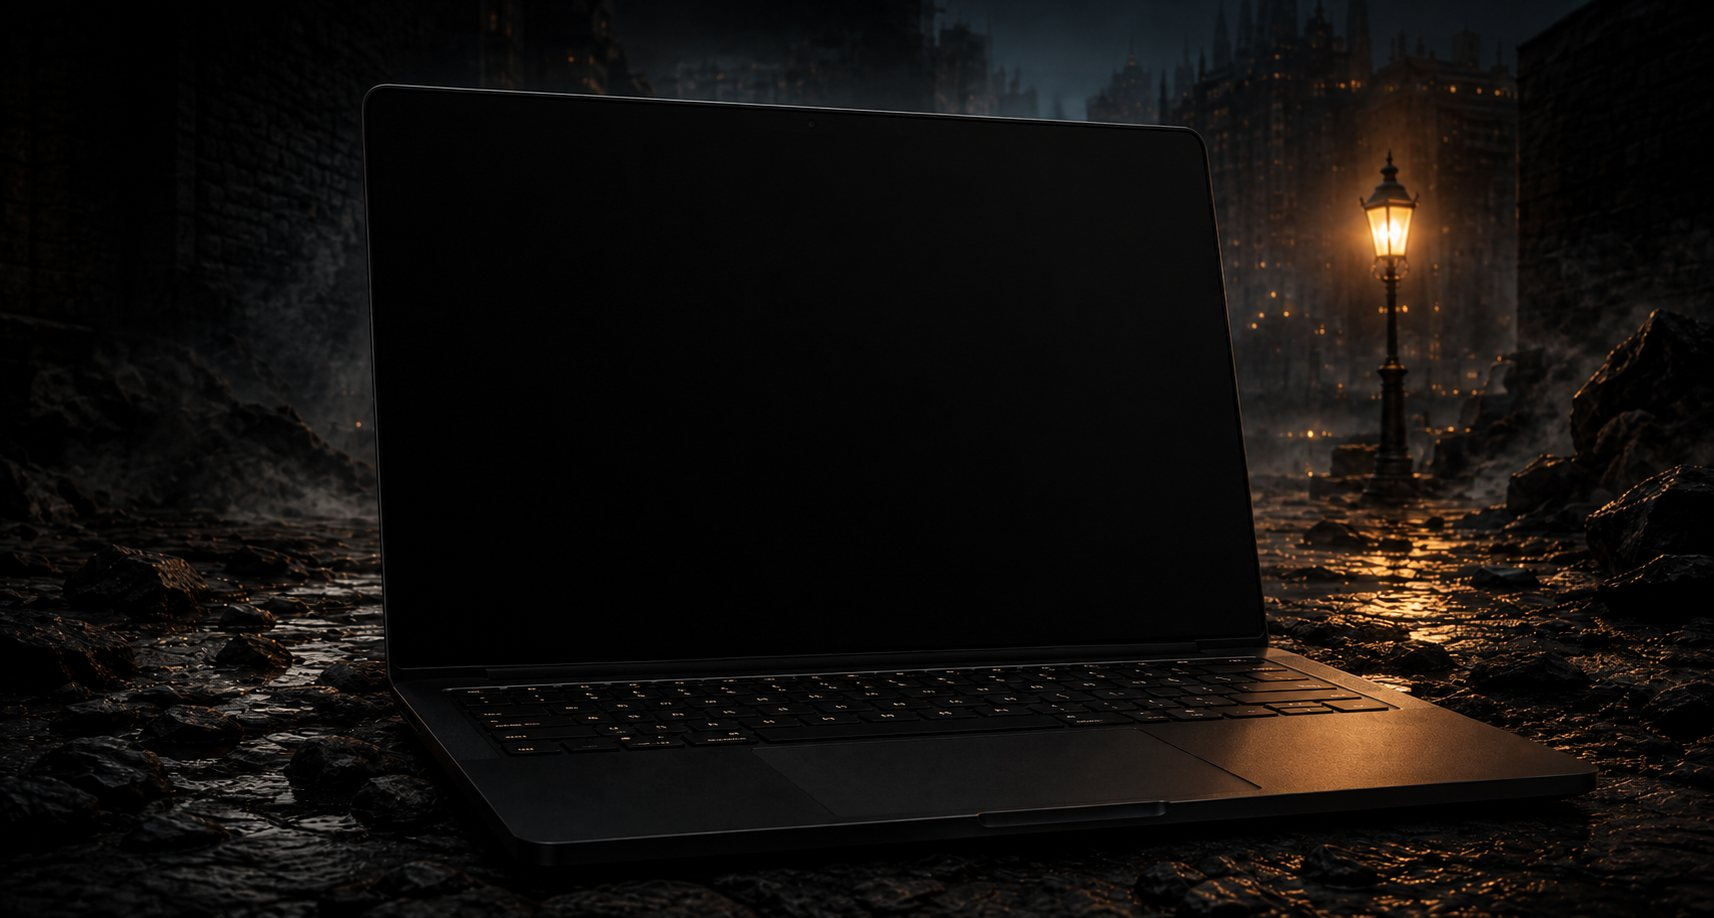
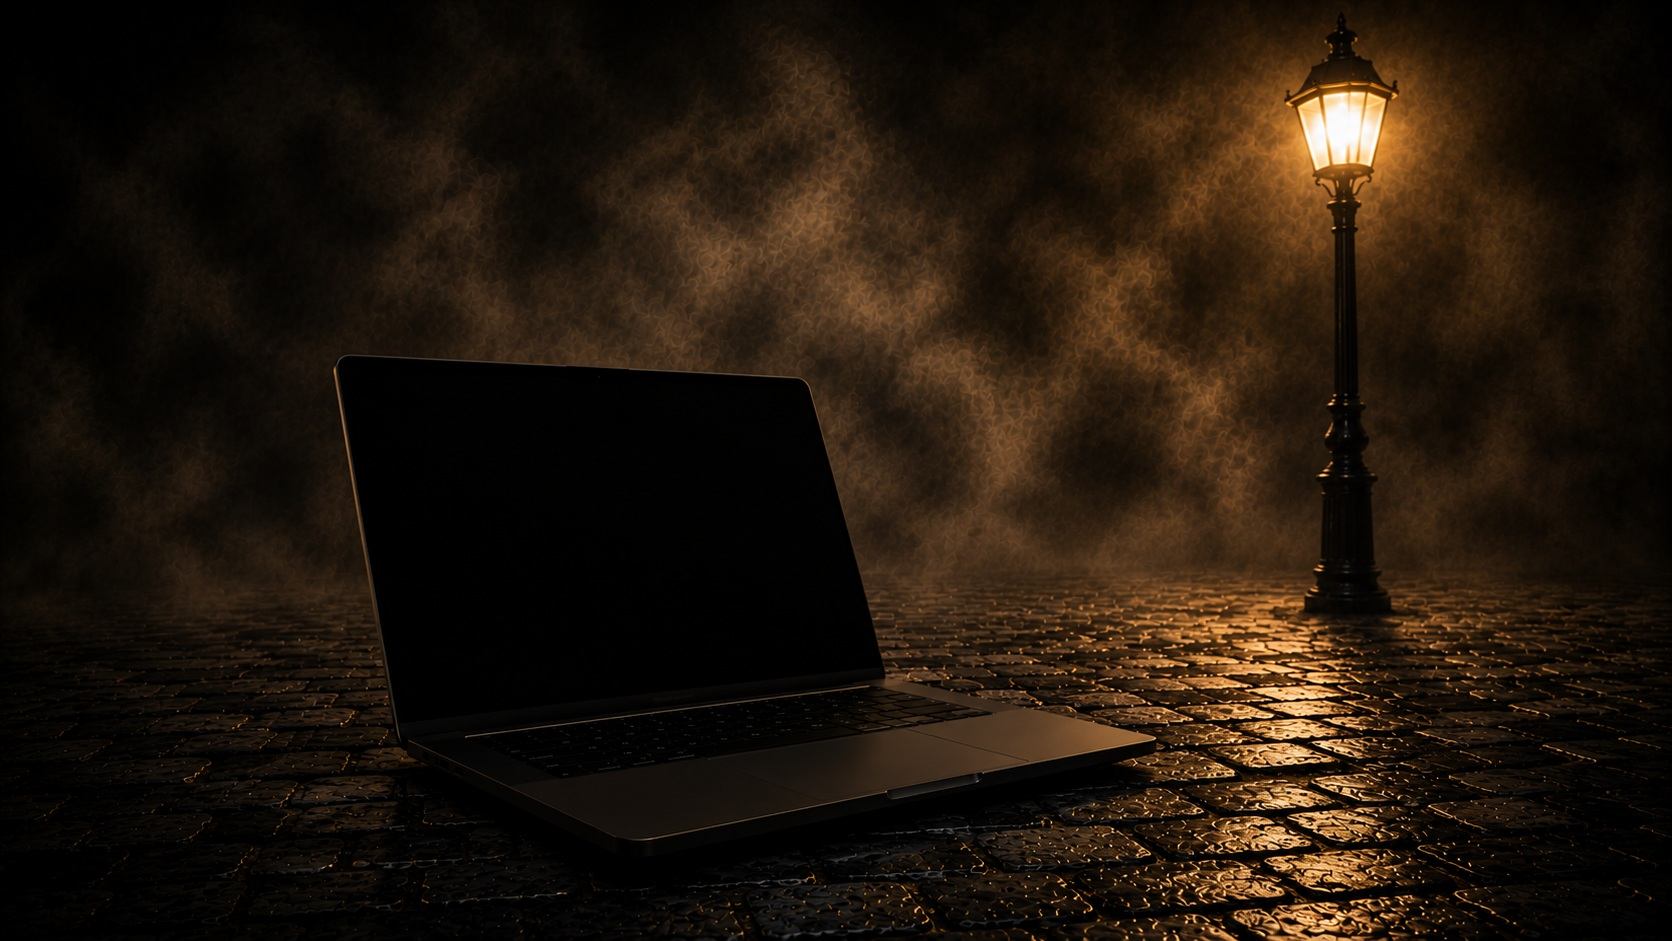
Lay the panel on the lid by projection instead of by eye
The plane was positioned in percentages of the section while the backdrop is
cropped to fill it, so the content drifted off the laptop as soon as the window
changed shape — and three hand-tuned rotations could never match a photographed
perspective anyway.

The backdrop is now a measured image, and the four corners of the screen, given
as fractions of that image, are mapped onto a fixed 1440 by 900 surface through
a homography solved at runtime and handed to CSS as matrix3d. The panel lands on
the lid exactly, at any window size, and the lantern glow is placed from the same
measurement.

diff --git a/src/components/ProjectsStage.tsx b/src/components/ProjectsStage.tsx
@@ -1,4 +1,4 @@
-import React, { useCallback, useEffect, useState } from 'react';
+import React, { useCallback, useEffect, useRef, useState } from 'react';
 import { motion, AnimatePresence } from 'framer-motion';
 import { projects } from '../lib/projects';
 
@@ -7,19 +7,82 @@ import { projects } from '../lib/projects';
  * Drehung, mit der die Flaeche auf den aufgeklappten Deckel gelegt wird. Alle
  * Feinjustage passiert hier — sonst nirgends.
  */
-const SCREEN = {
-  left: '21.4%',
-  top: '9.2%',
-  width: '49.6%',
-  height: '60.5%',
-  rotateY: -13.5,
-  rotateX: 1.4,
-  skewY: 3.4,
-  perspective: 1500,
+const SCREEN_QUAD = {
+  topLeft: [0.213, 0.389],
+  topRight: [0.478, 0.372],
+  bottomRight: [0.512, 0.703],
+  bottomLeft: [0.253, 0.716],
+} as const;
+
+/** Aufloesung der Flaeche, die auf den Deckel gelegt wird. */
+const PANEL = { width: 1440, height: 900 };
+
+/**
+ * Loest ein lineares Gleichungssystem per Gauss-Elimination.
+ */
+const solve = (matrix: number[][], rhs: number[]): number[] => {
+  const size = rhs.length;
+  const rows = matrix.map((row, index) => [...row, rhs[index]]);
+
+  for (let column = 0; column < size; column += 1) {
+    let pivot = column;
+    for (let row = column + 1; row < size; row += 1) {
+      if (Math.abs(rows[row][column]) > Math.abs(rows[pivot][column])) {
+        pivot = row;
+      }
+    }
+    [rows[column], rows[pivot]] = [rows[pivot], rows[column]];
+
+    for (let row = 0; row < size; row += 1) {
+      if (row === column) {
+        continue;
+      }
+      const factor = rows[row][column] / rows[column][column];
+      for (let k = column; k <= size; k += 1) {
+        rows[row][k] -= factor * rows[column][k];
+      }
+    }
+  }
+
+  return rows.map((row, index) => row[size] / row[index]);
+};
+
+/**
+ * Projektive Abbildung eines Rechtecks auf vier beliebige Eckpunkte, als
+ * matrix3d. Damit liegt die Flaeche exakt auf dem Deckel, statt per Augenmass
+ * gedreht zu werden.
+ */
+const quadTransform = (
+  width: number,
+  height: number,
+  corners: number[][],
+): string => {
+  const source = [
+    [0, 0],
+    [width, 0],
+    [width, height],
+    [0, height],
+  ];
+
+  const rows: number[][] = [];
+  const rhs: number[] = [];
+
+  source.forEach(([x, y], index) => {
+    const [u, v] = corners[index];
+    rows.push([x, y, 1, 0, 0, 0, -x * u, -y * u]);
+    rhs.push(u);
+    rows.push([0, 0, 0, x, y, 1, -x * v, -y * v]);
+    rhs.push(v);
+  });
+
+  const [a, b, c, d, e, f, g, h] = solve(rows, rhs);
+
+  // Spaltenweise, wie CSS es erwartet.
+  return `matrix3d(${a}, ${d}, 0, ${g}, ${b}, ${e}, 0, ${h}, 0, 0, 1, 0, ${c}, ${f}, 0, 1)`;
 };
 
 /** Mitte des Laternenglases im Hintergrundbild. */
-const LAMP = { left: '81.1%', top: '25.5%' };
+const LAMP = [0.8, 0.06] as const;
 
 /**
  * Die Projekte auf der Strassenbuehne: ein aufgeklapptes Notebook, in dem das
@@ -29,6 +92,50 @@ const LAMP = { left: '81.1%', top: '25.5%' };
 export const ProjectsStage: React.FC = () => {
   const [index, setIndex] = useState(0);
   const project = projects[index];
+  const plateRef = useRef<HTMLImageElement | null>(null);
+  const [transform, setTransform] = useState<string>('');
+  const [lamp, setLamp] = useState({ left: '81%', top: '25%' });
+
+  // Das Bild wird beschnitten dargestellt; ohne diese Rechnung sitzen die
+  // Eckpunkte irgendwo, sobald sich das Fensterformat aendert.
+  useEffect(() => {
+    const measure = () => {
+      const plate = plateRef.current;
+      if (!plate || !plate.naturalWidth) {
+        return;
+      }
+
+      const box = plate.getBoundingClientRect();
+      const ratio = plate.naturalWidth / plate.naturalHeight;
+      const boxRatio = box.width / box.height;
+
+      const drawnW = boxRatio >= ratio ? box.width : box.height * ratio;
+      const drawnH = boxRatio >= ratio ? box.width / ratio : box.height;
+      const originX = (box.width - drawnW) / 2;
+      const originY = (box.height - drawnH) / 2;
+
+      const toStage = ([fx, fy]: readonly number[]) => [
+        originX + fx * drawnW,
+        originY + fy * drawnH,
+      ];
+
+      setTransform(
+        quadTransform(PANEL.width, PANEL.height, [
+          toStage(SCREEN_QUAD.topLeft),
+          toStage(SCREEN_QUAD.topRight),
+          toStage(SCREEN_QUAD.bottomRight),
+          toStage(SCREEN_QUAD.bottomLeft),
+        ]),
+      );
+
+      const [lampX, lampY] = toStage(LAMP);
+      setLamp({ left: `${lampX}px`, top: `${lampY}px` });
+    };
+
+    measure();
+    window.addEventListener('resize', measure);
+    return () => window.removeEventListener('resize', measure);
+  }, []);
 
   const step = useCallback((delta: number) => {
     setIndex((current) => (current + delta + projects.length) % projects.length);
@@ -48,19 +155,21 @@ export const ProjectsStage: React.FC = () => {
     <section
       id="work-stage"
       className="relative hidden h-screen w-full overflow-hidden bg-black md:block"
-      style={{
-        backgroundImage: 'url(/projekt-buehne.jpg)',
-        backgroundSize: 'cover',
-        backgroundPosition: 'center',
-        animation: 'lampIntensity 6s infinite ease-in-out',
-      }}
+      style={{ animation: 'lampIntensity 6s infinite ease-in-out' }}
     >
+      <img
+        ref={plateRef}
+        src="/projekt-buehne.jpg"
+        alt=""
+        onLoad={() => window.dispatchEvent(new Event('resize'))}
+        className="absolute inset-0 h-full w-full object-cover"
+      />
       <span
         aria-hidden="true"
         className="pointer-events-none absolute -translate-x-1/2 -translate-y-1/2 rounded-full"
         style={{
-          left: LAMP.left,
-          top: LAMP.top,
+          left: lamp.left,
+          top: lamp.top,
           width: '26vw',
           height: '26vw',
           background:
@@ -94,23 +203,17 @@ export const ProjectsStage: React.FC = () => {
       </div>
 
       <div
-        className="absolute"
+        className="absolute left-0 top-0 overflow-hidden"
         style={{
-          left: SCREEN.left,
-          top: SCREEN.top,
-          width: SCREEN.width,
-          height: SCREEN.height,
-          perspective: `${SCREEN.perspective}px`,
+          width: `${PANEL.width}px`,
+          height: `${PANEL.height}px`,
+          transformOrigin: '0 0',
+          transform,
+          background: '#080706',
+          opacity: transform ? 1 : 0,
         }}
       >
-        <div
-          className="h-full w-full overflow-hidden"
-          style={{
-            transform: `rotateY(${SCREEN.rotateY}deg) rotateX(${SCREEN.rotateX}deg) skewY(${SCREEN.skewY}deg)`,
-            transformOrigin: 'left center',
-            background: '#080706',
-          }}
-        >
+        <div className="h-full w-full">
           <AnimatePresence mode="wait">
             <motion.div
               key={project.number}
